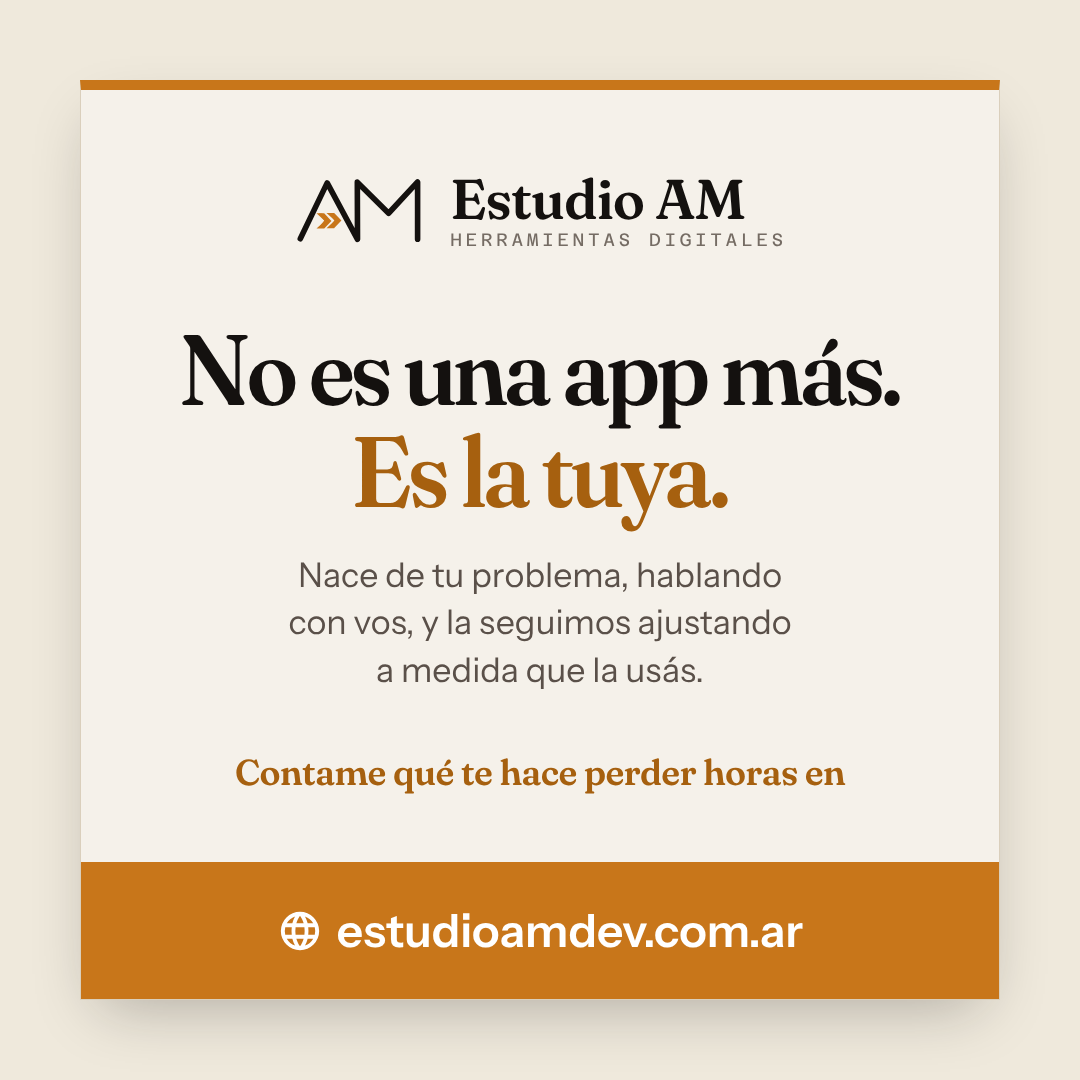
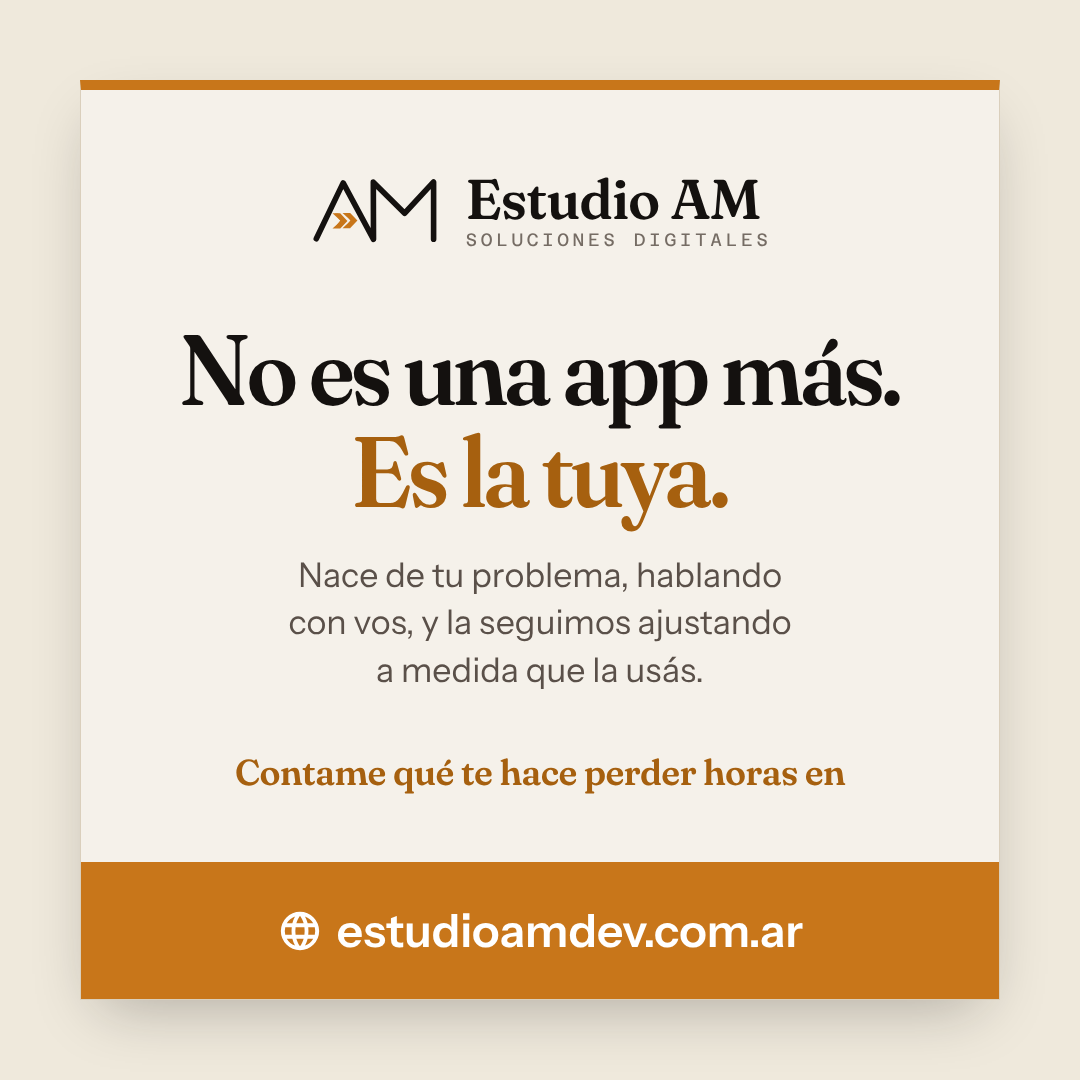
Instagram: piezas 'Es la tuya', 'Apps a medida' y 'Tiendas online' con capturas reales; tarjetas con 'Soluciones digitales'
Claude-Session: https://claude.ai/code/session_017mEGFx6s2jDAYU45fQz8RP

Changed region(s): [[0.275, 0.1528, 0.7333, 0.2444]]

diff --git a/piezas/instagram-apps.html b/piezas/instagram-apps.html
@@ -1,0 +1,35 @@
+<!doctype html><html lang="es"><head><meta charset="utf-8">
+<link href="https://fonts.googleapis.com/css2?family=Fraunces:ital,opsz,wght,SOFT,WONK@0,9..144,400..700,50,1;1,9..144,400..600,50,1&family=Instrument+Sans:wght@400;500;600&family=Azeret+Mono:wght@400;500&display=block" rel="stylesheet">
+<style>
+*{box-sizing:border-box;margin:0;padding:0}
+body{width:1080px;height:1350px;background:#EFE9DC;font-family:'Instrument Sans',sans-serif;color:#14110F;display:flex;align-items:center;justify-content:center}
+.card{width:920px;height:1190px;background:#F5F1EA;border:1px solid #DACFBC;border-top:10px solid #C8761A;box-shadow:0 24px 60px -20px rgba(20,17,15,.3);padding:80px 80px 0;display:flex;flex-direction:column;position:relative}
+.top{display:flex;align-items:center;justify-content:center;gap:24px}
+.mark{height:70px;width:133px}
+.lt b{display:block;font-family:'Fraunces',serif;font-weight:600;font-size:56px;letter-spacing:-.01em;line-height:1.05}
+.lt i{font-style:normal;font-family:'Azeret Mono',monospace;font-size:18px;letter-spacing:.2em;text-transform:uppercase;color:#756C64}
+.mid{flex:1;display:flex;flex-direction:column;justify-content:center;text-align:center}
+.tag{font-family:'Azeret Mono',monospace;font-size:22px;letter-spacing:.24em;text-transform:uppercase;color:#A6600F;margin-bottom:28px}
+h1{font-family:'Fraunces',serif;font-weight:600;font-size:108px;line-height:1.02;letter-spacing:-.025em}
+h1 span{color:#A6600F}
+.sub{margin-top:40px;font-size:38px;line-height:1.4;color:#5A5049}
+.cta{margin-top:72px;font-family:'Fraunces',serif;font-weight:600;font-size:40px;color:#A6600F;letter-spacing:-.015em}
+.info{margin-left:-80px;margin-right:-80px;background:#C8761A;color:#fff;padding:48px 80px;display:flex;justify-content:center;font-size:50px;font-weight:600}
+.info span{display:flex;align-items:center;gap:14px}
+.info svg{width:46px;height:46px;fill:#fff}
+
+h1{font-size:96px}
+.mid{justify-content:center;align-items:center}
+.shot{width:560px;height:560px;margin-top:24px;background-repeat:no-repeat;background-size:738px;background-position:-89px -147px}
+.sub{margin-top:18px;font-size:34px;line-height:1.35}
+</style></head><body>
+<div class="card">
+  <div class="top"><svg class="mark" viewBox="0 26 190 100"><path d="M 10.422337,117.11416 48.820421,37.300995 92.1554,117.93697 91.881131,36.203908 136.58747,80.635977 178.00255,35.929636 V 117.6627" fill="none" stroke="#14110F" stroke-width="8" stroke-linecap="round" stroke-linejoin="round"/><polygon points="37.00,81.00 44.67,91.00 37.00,101.00 41.83,101.00 48.50,91.00 41.83,81.00" fill="#C8761A"/><polygon points="56.33,101 63,91 56.33,81 51.5,81 59.17,91 51.5,101 " fill="#c8761a" transform="matrix(1.3851412,0,0,0.97306171,-34.373503,2.997782)" style="stroke:#c8761a;stroke-width:2.41402;stroke-dasharray:none;stroke-opacity:1"/><polygon points="51.50,81.00 59.17,91.00 51.50,101.00 56.33,101.00 63.00,91.00 56.33,81.00" fill="#C8761A"/><polygon points="56.33,101 63,91 56.33,81 51.5,81 59.17,91 51.5,101 " fill="#c8761a" transform="matrix(1.3851412,0,0,0.97306171,-20.089239,2.6035349)" style="stroke:#c8761a;stroke-width:2.41402;stroke-dasharray:none;stroke-opacity:1"/></svg><div class="lt"><b>Estudio AM</b><i>Soluciones digitales</i></div></div>
+  <div class="mid">
+  <h1>Apps <span>a medida</span></h1>
+  <div class="shot" style="background-image:url(fotos-perfil/agenda-docente.jpg)"></div>
+  <p class="sub">Para Android en Google Play, o web<br>para cualquier celular, también iPhone.</p>
+  </div>
+  <div class="info">
+    <span><svg viewBox="0 0 24 24"><path d="M12 2a10 10 0 1 0 0 20 10 10 0 0 0 0-20zm6.9 6h-2.9a15.7 15.7 0 0 0-1.4-3.6A8 8 0 0 1 18.9 8zM12 4c.8 1.2 1.5 2.5 1.9 4h-3.8c.4-1.5 1.1-2.8 1.9-4zM4.3 14a8.2 8.2 0 0 1 0-4h3.4a16.5 16.5 0 0 0 0 4H4.3zm.8 2h2.9c.3 1.3.8 2.5 1.4 3.6A8 8 0 0 1 5.1 16zM8 8H5.1a8 8 0 0 1 4.3-3.6C8.8 5.5 8.3 6.7 8 8zm4 12c-.8-1.2-1.5-2.5-1.9-4h3.8c-.4 1.5-1.1 2.8-1.9 4zm2.3-6H9.7a14.7 14.7 0 0 1 0-4h4.6a14.7 14.7 0 0 1 0 4zm.3 5.6c.6-1.1 1.1-2.3 1.4-3.6h2.9a8 8 0 0 1-4.3 3.6zm1.7-5.6a16.5 16.5 0 0 0 0-4h3.4a8.2 8.2 0 0 1 0 4h-3.4z"/></svg>estudioamdev.com.ar</span></div>
+</div></body></html>

diff --git a/piezas/instagram-es-la-tuya.html b/piezas/instagram-es-la-tuya.html
@@ -1,0 +1,35 @@
+<!doctype html><html lang="es"><head><meta charset="utf-8">
+<link href="https://fonts.googleapis.com/css2?family=Fraunces:ital,opsz,wght,SOFT,WONK@0,9..144,400..700,50,1;1,9..144,400..600,50,1&family=Instrument+Sans:wght@400;500;600&family=Azeret+Mono:wght@400;500&display=block" rel="stylesheet">
+<style>
+*{box-sizing:border-box;margin:0;padding:0}
+body{width:1080px;height:1350px;background:#EFE9DC;font-family:'Instrument Sans',sans-serif;color:#14110F;display:flex;align-items:center;justify-content:center}
+.card{width:920px;height:1190px;background:#F5F1EA;border:1px solid #DACFBC;border-top:10px solid #C8761A;box-shadow:0 24px 60px -20px rgba(20,17,15,.3);padding:80px 80px 0;display:flex;flex-direction:column;position:relative}
+.top{display:flex;align-items:center;justify-content:center;gap:24px}
+.mark{height:70px;width:133px}
+.lt b{display:block;font-family:'Fraunces',serif;font-weight:600;font-size:56px;letter-spacing:-.01em;line-height:1.05}
+.lt i{font-style:normal;font-family:'Azeret Mono',monospace;font-size:18px;letter-spacing:.2em;text-transform:uppercase;color:#756C64}
+.mid{flex:1;display:flex;flex-direction:column;justify-content:center;text-align:center}
+.tag{font-family:'Azeret Mono',monospace;font-size:22px;letter-spacing:.24em;text-transform:uppercase;color:#A6600F;margin-bottom:28px}
+h1{font-family:'Fraunces',serif;font-weight:600;font-size:108px;line-height:1.02;letter-spacing:-.025em}
+h1 span{color:#A6600F}
+.sub{margin-top:40px;font-size:38px;line-height:1.4;color:#5A5049}
+.cta{margin-top:72px;font-family:'Fraunces',serif;font-weight:600;font-size:40px;color:#A6600F;letter-spacing:-.015em}
+.info{margin-left:-80px;margin-right:-80px;background:#C8761A;color:#fff;padding:48px 80px;display:flex;justify-content:center;font-size:50px;font-weight:600}
+.info span{display:flex;align-items:center;gap:14px}
+.info svg{width:46px;height:46px;fill:#fff}
+
+h1{font-size:96px}
+.mid{justify-content:center;align-items:center}
+.shot{width:470px;height:470px;margin-top:24px;background-repeat:no-repeat;background-size:619px;background-position:-75px -123px}
+.sub{margin-top:18px;font-size:34px;line-height:1.35}
+</style></head><body>
+<div class="card">
+  <div class="top"><svg class="mark" viewBox="0 26 190 100"><path d="M 10.422337,117.11416 48.820421,37.300995 92.1554,117.93697 91.881131,36.203908 136.58747,80.635977 178.00255,35.929636 V 117.6627" fill="none" stroke="#14110F" stroke-width="8" stroke-linecap="round" stroke-linejoin="round"/><polygon points="37.00,81.00 44.67,91.00 37.00,101.00 41.83,101.00 48.50,91.00 41.83,81.00" fill="#C8761A"/><polygon points="56.33,101 63,91 56.33,81 51.5,81 59.17,91 51.5,101 " fill="#c8761a" transform="matrix(1.3851412,0,0,0.97306171,-34.373503,2.997782)" style="stroke:#c8761a;stroke-width:2.41402;stroke-dasharray:none;stroke-opacity:1"/><polygon points="51.50,81.00 59.17,91.00 51.50,101.00 56.33,101.00 63.00,91.00 56.33,81.00" fill="#C8761A"/><polygon points="56.33,101 63,91 56.33,81 51.5,81 59.17,91 51.5,101 " fill="#c8761a" transform="matrix(1.3851412,0,0,0.97306171,-20.089239,2.6035349)" style="stroke:#c8761a;stroke-width:2.41402;stroke-dasharray:none;stroke-opacity:1"/></svg><div class="lt"><b>Estudio AM</b><i>Soluciones digitales</i></div></div>
+  <div class="mid">
+  <h1>No es una app más.<br><span>Es la tuya.</span></h1>
+  <div class="shot" style="background-image:url(fotos-perfil/sistema-ambar.jpg)"></div>
+  <p class="sub">Hecha a la medida de cómo<br>trabaja tu negocio.</p>
+  </div>
+  <div class="info">
+    <span><svg viewBox="0 0 24 24"><path d="M12 2a10 10 0 1 0 0 20 10 10 0 0 0 0-20zm6.9 6h-2.9a15.7 15.7 0 0 0-1.4-3.6A8 8 0 0 1 18.9 8zM12 4c.8 1.2 1.5 2.5 1.9 4h-3.8c.4-1.5 1.1-2.8 1.9-4zM4.3 14a8.2 8.2 0 0 1 0-4h3.4a16.5 16.5 0 0 0 0 4H4.3zm.8 2h2.9c.3 1.3.8 2.5 1.4 3.6A8 8 0 0 1 5.1 16zM8 8H5.1a8 8 0 0 1 4.3-3.6C8.8 5.5 8.3 6.7 8 8zm4 12c-.8-1.2-1.5-2.5-1.9-4h3.8c-.4 1.5-1.1 2.8-1.9 4zm2.3-6H9.7a14.7 14.7 0 0 1 0-4h4.6a14.7 14.7 0 0 1 0 4zm.3 5.6c.6-1.1 1.1-2.3 1.4-3.6h2.9a8 8 0 0 1-4.3 3.6zm1.7-5.6a16.5 16.5 0 0 0 0-4h3.4a8.2 8.2 0 0 1 0 4h-3.4z"/></svg>estudioamdev.com.ar</span></div>
+</div></body></html>

diff --git a/piezas/instagram-tiendas.html b/piezas/instagram-tiendas.html
@@ -1,0 +1,35 @@
+<!doctype html><html lang="es"><head><meta charset="utf-8">
+<link href="https://fonts.googleapis.com/css2?family=Fraunces:ital,opsz,wght,SOFT,WONK@0,9..144,400..700,50,1;1,9..144,400..600,50,1&family=Instrument+Sans:wght@400;500;600&family=Azeret+Mono:wght@400;500&display=block" rel="stylesheet">
+<style>
+*{box-sizing:border-box;margin:0;padding:0}
+body{width:1080px;height:1350px;background:#EFE9DC;font-family:'Instrument Sans',sans-serif;color:#14110F;display:flex;align-items:center;justify-content:center}
+.card{width:920px;height:1190px;background:#F5F1EA;border:1px solid #DACFBC;border-top:10px solid #C8761A;box-shadow:0 24px 60px -20px rgba(20,17,15,.3);padding:80px 80px 0;display:flex;flex-direction:column;position:relative}
+.top{display:flex;align-items:center;justify-content:center;gap:24px}
+.mark{height:70px;width:133px}
+.lt b{display:block;font-family:'Fraunces',serif;font-weight:600;font-size:56px;letter-spacing:-.01em;line-height:1.05}
+.lt i{font-style:normal;font-family:'Azeret Mono',monospace;font-size:18px;letter-spacing:.2em;text-transform:uppercase;color:#756C64}
+.mid{flex:1;display:flex;flex-direction:column;justify-content:center;text-align:center}
+.tag{font-family:'Azeret Mono',monospace;font-size:22px;letter-spacing:.24em;text-transform:uppercase;color:#A6600F;margin-bottom:28px}
+h1{font-family:'Fraunces',serif;font-weight:600;font-size:108px;line-height:1.02;letter-spacing:-.025em}
+h1 span{color:#A6600F}
+.sub{margin-top:40px;font-size:38px;line-height:1.4;color:#5A5049}
+.cta{margin-top:72px;font-family:'Fraunces',serif;font-weight:600;font-size:40px;color:#A6600F;letter-spacing:-.015em}
+.info{margin-left:-80px;margin-right:-80px;background:#C8761A;color:#fff;padding:48px 80px;display:flex;justify-content:center;font-size:50px;font-weight:600}
+.info span{display:flex;align-items:center;gap:14px}
+.info svg{width:46px;height:46px;fill:#fff}
+
+h1{font-size:96px}
+.mid{justify-content:center;align-items:center}
+.shot{width:560px;height:560px;margin-top:24px;background-repeat:no-repeat;background-size:738px;background-position:-89px -147px}
+.sub{margin-top:18px;font-size:34px;line-height:1.35}
+</style></head><body>
+<div class="card">
+  <div class="top"><svg class="mark" viewBox="0 26 190 100"><path d="M 10.422337,117.11416 48.820421,37.300995 92.1554,117.93697 91.881131,36.203908 136.58747,80.635977 178.00255,35.929636 V 117.6627" fill="none" stroke="#14110F" stroke-width="8" stroke-linecap="round" stroke-linejoin="round"/><polygon points="37.00,81.00 44.67,91.00 37.00,101.00 41.83,101.00 48.50,91.00 41.83,81.00" fill="#C8761A"/><polygon points="56.33,101 63,91 56.33,81 51.5,81 59.17,91 51.5,101 " fill="#c8761a" transform="matrix(1.3851412,0,0,0.97306171,-34.373503,2.997782)" style="stroke:#c8761a;stroke-width:2.41402;stroke-dasharray:none;stroke-opacity:1"/><polygon points="51.50,81.00 59.17,91.00 51.50,101.00 56.33,101.00 63.00,91.00 56.33,81.00" fill="#C8761A"/><polygon points="56.33,101 63,91 56.33,81 51.5,81 59.17,91 51.5,101 " fill="#c8761a" transform="matrix(1.3851412,0,0,0.97306171,-20.089239,2.6035349)" style="stroke:#c8761a;stroke-width:2.41402;stroke-dasharray:none;stroke-opacity:1"/></svg><div class="lt"><b>Estudio AM</b><i>Soluciones digitales</i></div></div>
+  <div class="mid">
+  <h1>Tiendas <span>online</span></h1>
+  <div class="shot" style="background-image:url(fotos-perfil/vera-bocados.jpg)"></div>
+  <p class="sub">Tus clientes eligen y el pedido<br>te llega armado por WhatsApp.</p>
+  </div>
+  <div class="info">
+    <span><svg viewBox="0 0 24 24"><path d="M12 2a10 10 0 1 0 0 20 10 10 0 0 0 0-20zm6.9 6h-2.9a15.7 15.7 0 0 0-1.4-3.6A8 8 0 0 1 18.9 8zM12 4c.8 1.2 1.5 2.5 1.9 4h-3.8c.4-1.5 1.1-2.8 1.9-4zM4.3 14a8.2 8.2 0 0 1 0-4h3.4a16.5 16.5 0 0 0 0 4H4.3zm.8 2h2.9c.3 1.3.8 2.5 1.4 3.6A8 8 0 0 1 5.1 16zM8 8H5.1a8 8 0 0 1 4.3-3.6C8.8 5.5 8.3 6.7 8 8zm4 12c-.8-1.2-1.5-2.5-1.9-4h3.8c-.4 1.5-1.1 2.8-1.9 4zm2.3-6H9.7a14.7 14.7 0 0 1 0-4h4.6a14.7 14.7 0 0 1 0 4zm.3 5.6c.6-1.1 1.1-2.3 1.4-3.6h2.9a8 8 0 0 1-4.3 3.6zm1.7-5.6a16.5 16.5 0 0 0 0-4h3.4a8.2 8.2 0 0 1 0 4h-3.4z"/></svg>estudioamdev.com.ar</span></div>
+</div></body></html>

diff --git a/piezas/tarjeta-a-medida.html b/piezas/tarjeta-a-medida.html
@@ -18,7 +18,7 @@ h1 span{color:#A6600F}
 .info svg{width:46px;height:46px;fill:#fff}
 </style></head><body>
 <div class="card">
-  <div class="top"><svg class="mark" viewBox="0 26 190 100"><path d="M 10.422337,117.11416 48.820421,37.300995 92.1554,117.93697 91.881131,36.203908 136.58747,80.635977 178.00255,35.929636 V 117.6627" fill="none" stroke="#14110F" stroke-width="8" stroke-linecap="round" stroke-linejoin="round"/><polygon points="37.00,81.00 44.67,91.00 37.00,101.00 41.83,101.00 48.50,91.00 41.83,81.00" fill="#C8761A"/><polygon points="56.33,101 63,91 56.33,81 51.5,81 59.17,91 51.5,101 " fill="#c8761a" transform="matrix(1.3851412,0,0,0.97306171,-34.373503,2.997782)" style="stroke:#c8761a;stroke-width:2.41402;stroke-dasharray:none;stroke-opacity:1"/><polygon points="51.50,81.00 59.17,91.00 51.50,101.00 56.33,101.00 63.00,91.00 56.33,81.00" fill="#C8761A"/><polygon points="56.33,101 63,91 56.33,81 51.5,81 59.17,91 51.5,101 " fill="#c8761a" transform="matrix(1.3851412,0,0,0.97306171,-20.089239,2.6035349)" style="stroke:#c8761a;stroke-width:2.41402;stroke-dasharray:none;stroke-opacity:1"/></svg><div class="lt"><b>Estudio AM</b><i>Herramientas digitales</i></div></div>
+  <div class="top"><svg class="mark" viewBox="0 26 190 100"><path d="M 10.422337,117.11416 48.820421,37.300995 92.1554,117.93697 91.881131,36.203908 136.58747,80.635977 178.00255,35.929636 V 117.6627" fill="none" stroke="#14110F" stroke-width="8" stroke-linecap="round" stroke-linejoin="round"/><polygon points="37.00,81.00 44.67,91.00 37.00,101.00 41.83,101.00 48.50,91.00 41.83,81.00" fill="#C8761A"/><polygon points="56.33,101 63,91 56.33,81 51.5,81 59.17,91 51.5,101 " fill="#c8761a" transform="matrix(1.3851412,0,0,0.97306171,-34.373503,2.997782)" style="stroke:#c8761a;stroke-width:2.41402;stroke-dasharray:none;stroke-opacity:1"/><polygon points="51.50,81.00 59.17,91.00 51.50,101.00 56.33,101.00 63.00,91.00 56.33,81.00" fill="#C8761A"/><polygon points="56.33,101 63,91 56.33,81 51.5,81 59.17,91 51.5,101 " fill="#c8761a" transform="matrix(1.3851412,0,0,0.97306171,-20.089239,2.6035349)" style="stroke:#c8761a;stroke-width:2.41402;stroke-dasharray:none;stroke-opacity:1"/></svg><div class="lt"><b>Estudio AM</b><i>Soluciones digitales</i></div></div>
   <div class="mid">
   <h1>No es una app más.<br><span>Es la tuya.</span></h1>
   <p class="sub">Nace de tu problema, hablando<br>con vos, y la seguimos ajustando<br>a medida que la usás.</p>

diff --git a/piezas/tarjeta-facebook.html b/piezas/tarjeta-facebook.html
@@ -18,7 +18,7 @@ h1 span{color:#A6600F}
 .info svg{width:46px;height:46px;fill:#fff}
 </style></head><body>
 <div class="card">
-  <div class="top"><svg class="mark" viewBox="0 26 190 100"><path d="M 10.422337,117.11416 48.820421,37.300995 92.1554,117.93697 91.881131,36.203908 136.58747,80.635977 178.00255,35.929636 V 117.6627" fill="none" stroke="#14110F" stroke-width="8" stroke-linecap="round" stroke-linejoin="round"/><polygon points="37.00,81.00 44.67,91.00 37.00,101.00 41.83,101.00 48.50,91.00 41.83,81.00" fill="#C8761A"/><polygon points="56.33,101 63,91 56.33,81 51.5,81 59.17,91 51.5,101 " fill="#c8761a" transform="matrix(1.3851412,0,0,0.97306171,-34.373503,2.997782)" style="stroke:#c8761a;stroke-width:2.41402;stroke-dasharray:none;stroke-opacity:1"/><polygon points="51.50,81.00 59.17,91.00 51.50,101.00 56.33,101.00 63.00,91.00 56.33,81.00" fill="#C8761A"/><polygon points="56.33,101 63,91 56.33,81 51.5,81 59.17,91 51.5,101 " fill="#c8761a" transform="matrix(1.3851412,0,0,0.97306171,-20.089239,2.6035349)" style="stroke:#c8761a;stroke-width:2.41402;stroke-dasharray:none;stroke-opacity:1"/></svg><div class="lt"><b>Estudio AM</b><i>Herramientas digitales</i></div></div>
+  <div class="top"><svg class="mark" viewBox="0 26 190 100"><path d="M 10.422337,117.11416 48.820421,37.300995 92.1554,117.93697 91.881131,36.203908 136.58747,80.635977 178.00255,35.929636 V 117.6627" fill="none" stroke="#14110F" stroke-width="8" stroke-linecap="round" stroke-linejoin="round"/><polygon points="37.00,81.00 44.67,91.00 37.00,101.00 41.83,101.00 48.50,91.00 41.83,81.00" fill="#C8761A"/><polygon points="56.33,101 63,91 56.33,81 51.5,81 59.17,91 51.5,101 " fill="#c8761a" transform="matrix(1.3851412,0,0,0.97306171,-34.373503,2.997782)" style="stroke:#c8761a;stroke-width:2.41402;stroke-dasharray:none;stroke-opacity:1"/><polygon points="51.50,81.00 59.17,91.00 51.50,101.00 56.33,101.00 63.00,91.00 56.33,81.00" fill="#C8761A"/><polygon points="56.33,101 63,91 56.33,81 51.5,81 59.17,91 51.5,101 " fill="#c8761a" transform="matrix(1.3851412,0,0,0.97306171,-20.089239,2.6035349)" style="stroke:#c8761a;stroke-width:2.41402;stroke-dasharray:none;stroke-opacity:1"/></svg><div class="lt"><b>Estudio AM</b><i>Soluciones digitales</i></div></div>
   <div class="mid">
   <h1>Apps y sitios web<br><span>a medida</span></h1>
   <p class="sub">Para comercios, alquileres,<br>escuelas y emprendimientos.<br>Lo manejás desde el celular.</p>

diff --git a/piezas/tarjeta-resenas.html b/piezas/tarjeta-resenas.html
@@ -21,7 +21,7 @@ h1 span{color:#A6600F}
 .cta{margin-top:26px}
 </style></head><body>
 <div class="card">
-  <div class="top"><svg class="mark" viewBox="0 26 190 100"><path d="M 10.422337,117.11416 48.820421,37.300995 92.1554,117.93697 91.881131,36.203908 136.58747,80.635977 178.00255,35.929636 V 117.6627" fill="none" stroke="#14110F" stroke-width="8" stroke-linecap="round" stroke-linejoin="round"/><polygon points="37.00,81.00 44.67,91.00 37.00,101.00 41.83,101.00 48.50,91.00 41.83,81.00" fill="#C8761A"/><polygon points="56.33,101 63,91 56.33,81 51.5,81 59.17,91 51.5,101 " fill="#c8761a" transform="matrix(1.3851412,0,0,0.97306171,-34.373503,2.997782)" style="stroke:#c8761a;stroke-width:2.41402;stroke-dasharray:none;stroke-opacity:1"/><polygon points="51.50,81.00 59.17,91.00 51.50,101.00 56.33,101.00 63.00,91.00 56.33,81.00" fill="#C8761A"/><polygon points="56.33,101 63,91 56.33,81 51.5,81 59.17,91 51.5,101 " fill="#c8761a" transform="matrix(1.3851412,0,0,0.97306171,-20.089239,2.6035349)" style="stroke:#c8761a;stroke-width:2.41402;stroke-dasharray:none;stroke-opacity:1"/></svg><div class="lt"><b>Estudio AM</b><i>Herramientas digitales</i></div></div>
+  <div class="top"><svg class="mark" viewBox="0 26 190 100"><path d="M 10.422337,117.11416 48.820421,37.300995 92.1554,117.93697 91.881131,36.203908 136.58747,80.635977 178.00255,35.929636 V 117.6627" fill="none" stroke="#14110F" stroke-width="8" stroke-linecap="round" stroke-linejoin="round"/><polygon points="37.00,81.00 44.67,91.00 37.00,101.00 41.83,101.00 48.50,91.00 41.83,81.00" fill="#C8761A"/><polygon points="56.33,101 63,91 56.33,81 51.5,81 59.17,91 51.5,101 " fill="#c8761a" transform="matrix(1.3851412,0,0,0.97306171,-34.373503,2.997782)" style="stroke:#c8761a;stroke-width:2.41402;stroke-dasharray:none;stroke-opacity:1"/><polygon points="51.50,81.00 59.17,91.00 51.50,101.00 56.33,101.00 63.00,91.00 56.33,81.00" fill="#C8761A"/><polygon points="56.33,101 63,91 56.33,81 51.5,81 59.17,91 51.5,101 " fill="#c8761a" transform="matrix(1.3851412,0,0,0.97306171,-20.089239,2.6035349)" style="stroke:#c8761a;stroke-width:2.41402;stroke-dasharray:none;stroke-opacity:1"/></svg><div class="lt"><b>Estudio AM</b><i>Soluciones digitales</i></div></div>
   <div class="mid">
   <h1>¿Te gustó<br><span>cómo quedó?</span></h1>
   <p class="sub">Tu opinión en Google nos ayuda<br>a que otros nos encuentren.</p>
